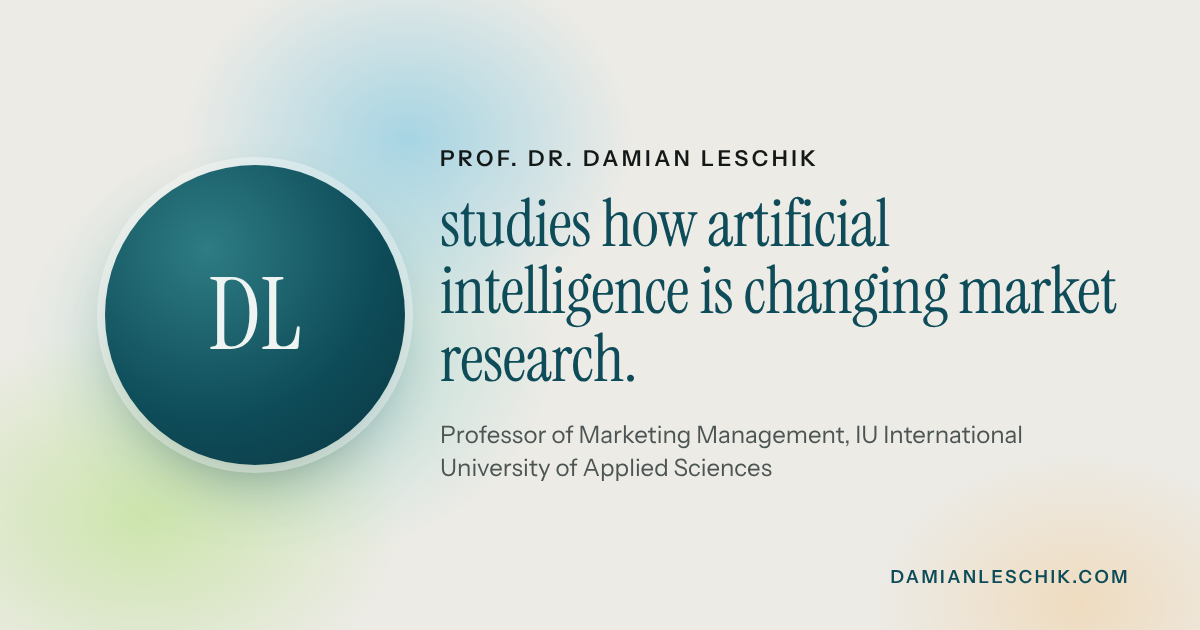
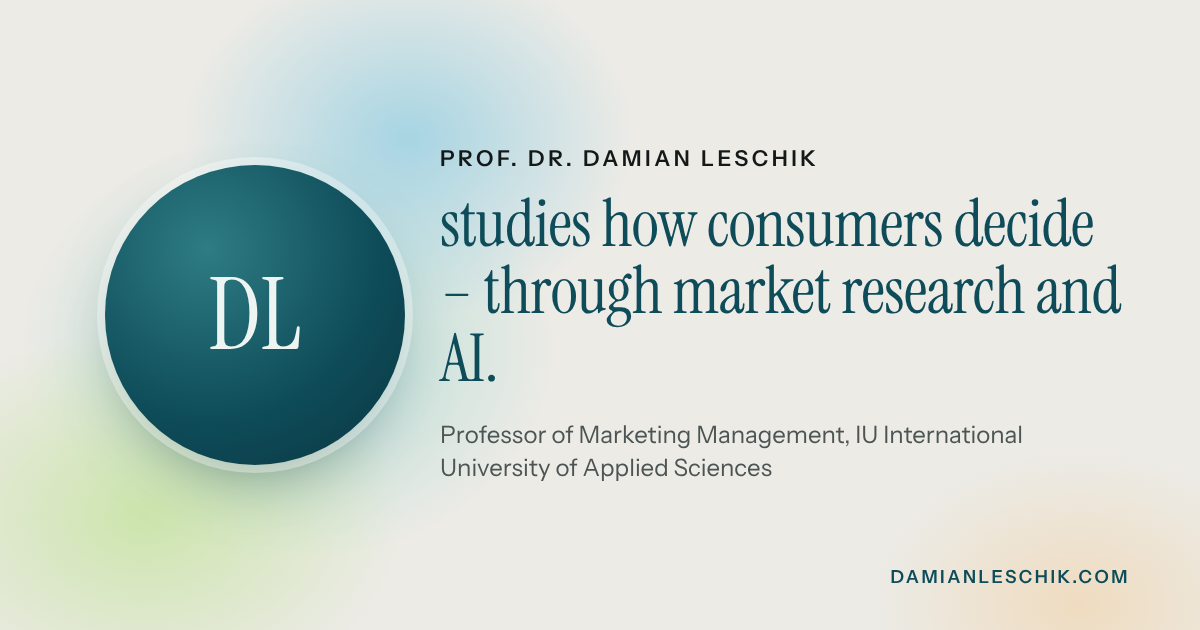
Neue Überschrift: wie Konsumenten entscheiden – mit Marktforschung und KI
Großer Satz auf der Startseite und Titel im Browser-Tab (DE/EN) angepasst,
Vorschaubilder für soziale Medien neu erzeugt.

Claude-Session: https://claude.ai/code/session_01RiCZooBJyG7BzJgMStaVG1

Changed region(s): [[0.37, 0.4222, 0.9558, 0.6032], [0.5858, 0.3016, 0.925, 0.3921]]

diff --git a/content/profil.de.md b/content/profil.de.md
@@ -1,10 +1,10 @@
 ---
 # Titel im Browser-Tab und in Suchergebnissen (max. ca. 60 Zeichen)
-title: "Prof. Dr. Damian Leschik – Marketing, KI und Marktforschung"
+title: "Damian Leschik – Konsumentenverhalten, Marktforschung & KI"
 # Beschreibung für Google & Co. (ca. 120–160 Zeichen)
 description: "Damian Leschik ist Professor für Marketing Management an der IU Internationalen Hochschule. Er forscht zu KI in der Marktforschung und Silicon Sampling."
 # Großer Satz oben auf der Startseite (beginnt mit deinem Namen)
-claim: "erforscht, wie künstliche Intelligenz die Marktforschung verändert."
+claim: "erforscht, wie Konsumenten entscheiden – mit Marktforschung und KI."
 ---
 Damian Leschik ist Professor für Marketing Management an der IU Internationalen Hochschule und lehrt an den Campus Aachen und Köln. Er untersucht, was künstliche Intelligenz für die Marktforschung leisten kann und wo ihre Grenzen liegen. Ein Schwerpunkt ist **Silicon Sampling**: die Frage, ob KI-generierte Befragte echte Menschen in Studien ersetzen oder sinnvoll ergänzen können.
 

diff --git a/content/profil.en.md b/content/profil.en.md
@@ -1,7 +1,7 @@
 ---
-title: "Prof. Dr. Damian Leschik – Marketing, AI and Market Research"
+title: "Damian Leschik – Consumer Behaviour, Market Research & AI"
 description: "Damian Leschik is Professor of Marketing Management at IU International University of Applied Sciences, researching AI in market research and silicon sampling."
-claim: "studies how artificial intelligence is changing market research."
+claim: "studies how consumers decide – through market research and AI."
 ---
 Damian Leschik is Professor of Marketing Management at IU International University of Applied Sciences, teaching at the Aachen and Cologne campuses in Germany. His research asks what artificial intelligence can contribute to market research and where its limits lie. A particular focus is **silicon sampling**: whether AI-generated respondents can replace, or usefully complement, real people in surveys and interviews.
 
